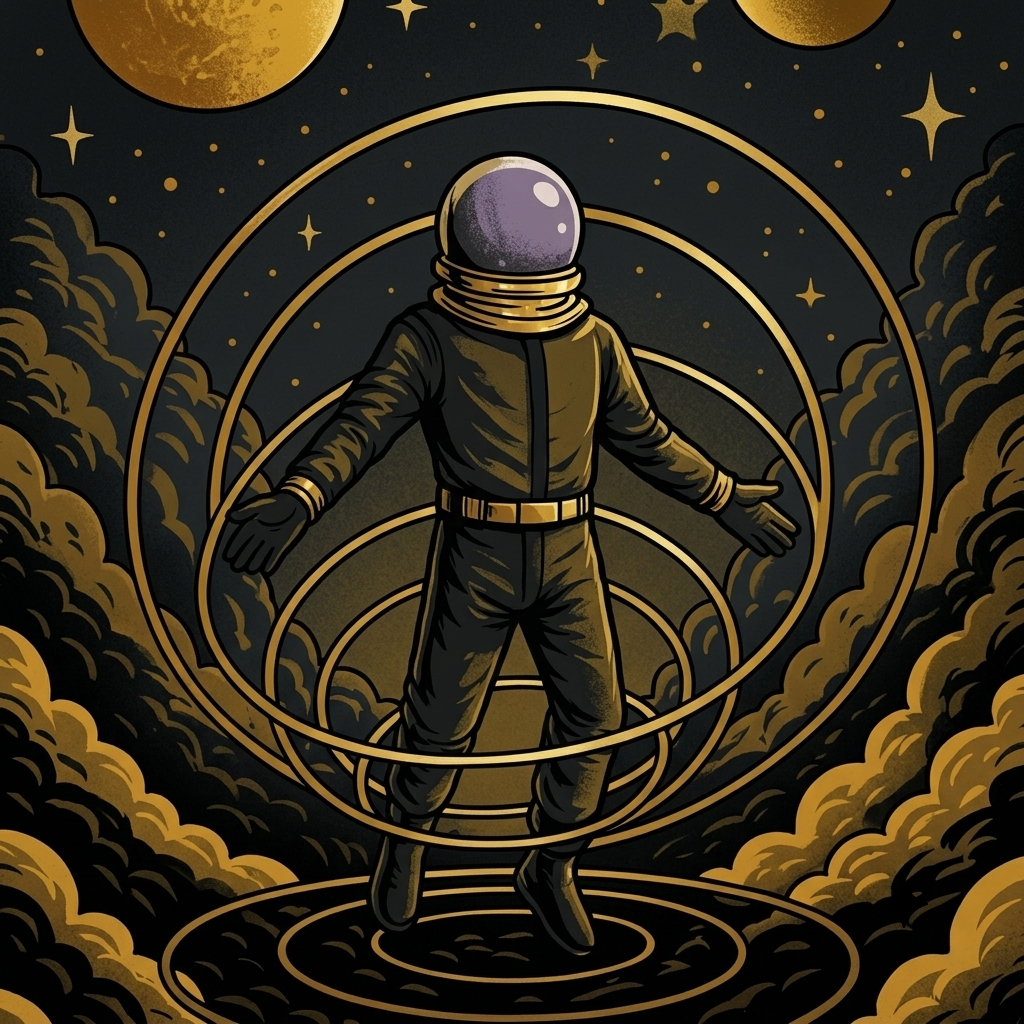
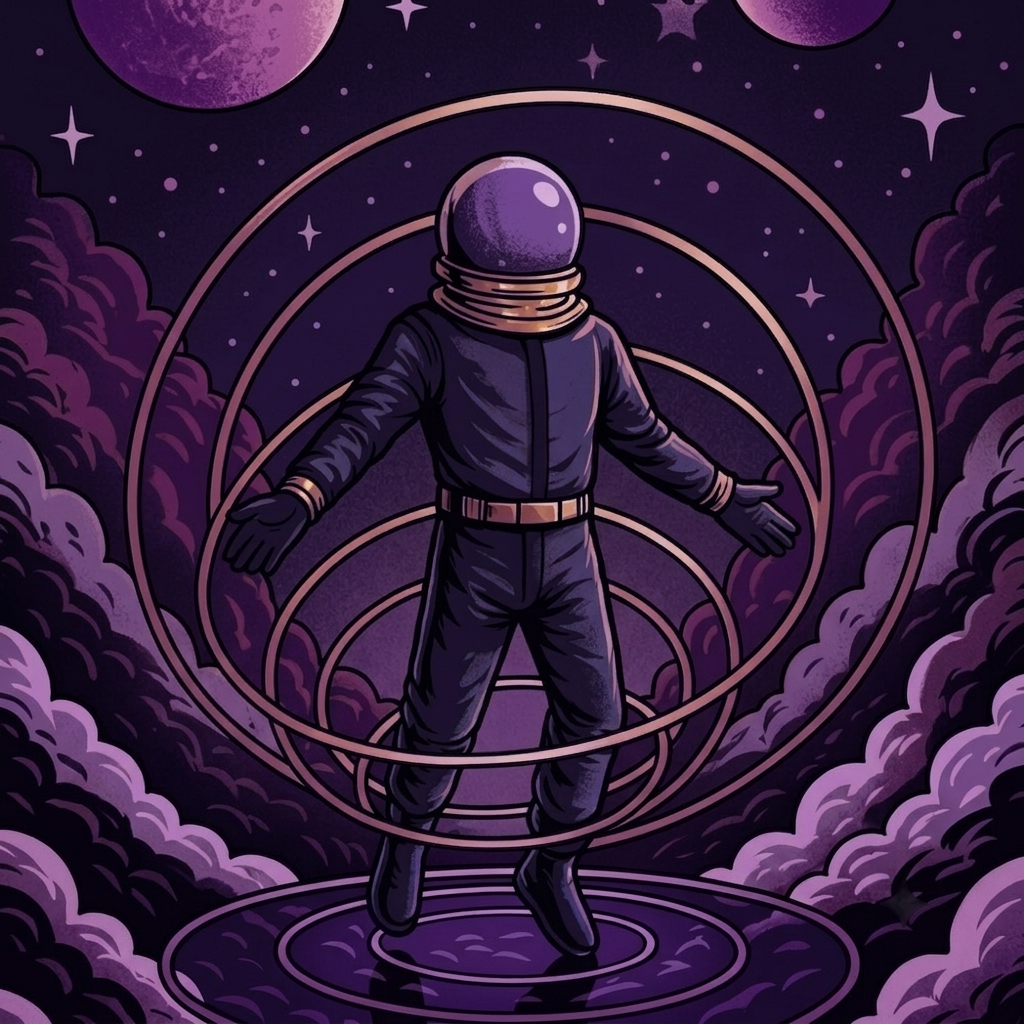
we purple now

diff --git a/style.css b/style.css
@@ -23,7 +23,7 @@ body::before, body::after, .star-1, .star-2, .star-3, .star-4, .star-5, .star-6,
   position: absolute;
   width: 4px;
   height: 4px;
-  background: #D4A017;
+  background: #A855F7;
   border-radius: 50%;
   opacity: 0.4;
   animation: drift 20s linear infinite;
@@ -59,8 +59,8 @@ body::after { top: 60%; left: 80%; animation-delay: -5s; opacity: 0.3; }
   height: 120px;
   border-radius: 50%;
   margin-bottom: 1.5rem;
-  border: 2px solid #D4A017;
-  box-shadow: 0 0 20px rgba(212, 160, 23, 0.4);
+  border: 2px solid #A855F7;
+  box-shadow: 0 0 20px rgba(168, 85, 247, 0.4);
   animation: float 3s ease-in-out infinite;
 }
 
@@ -99,10 +99,10 @@ h1 {
   word-break: break-all;
   margin-bottom: 2rem;
   font-family: monospace;
-  border: 1px solid #D4A017;
+  border: 1px solid #A855F7;
   padding: 0.75rem;
   border-radius: 8px;
-  background: rgba(212, 160, 23, 0.1);
+  background: rgba(168, 85, 247, 0.1);
   cursor: pointer;
   transition: background 0.2s;
   height: 5rem;
@@ -133,7 +133,7 @@ h1 {
 }
 
 .npub:hover {
-  background: rgba(212, 160, 23, 0.2);
+  background: rgba(168, 85, 247, 0.2);
 }
 
 .links {
@@ -147,16 +147,16 @@ h1 {
   display: block;
   padding: 0.875rem 1.5rem;
   background: #1a1a1a;
-  color: #D4A017;
+  color: #A855F7;
   text-decoration: none;
   border-radius: 8px;
   font-weight: 600;
   font-size: 0.9rem;
-  border: 1px solid #D4A017;
+  border: 1px solid #A855F7;
   transition: background 0.2s, border-color 0.2s;
 }
 
 .link:hover {
-  background: #D4A017;
+  background: #A855F7;
   color: #0d0d0d;
 }